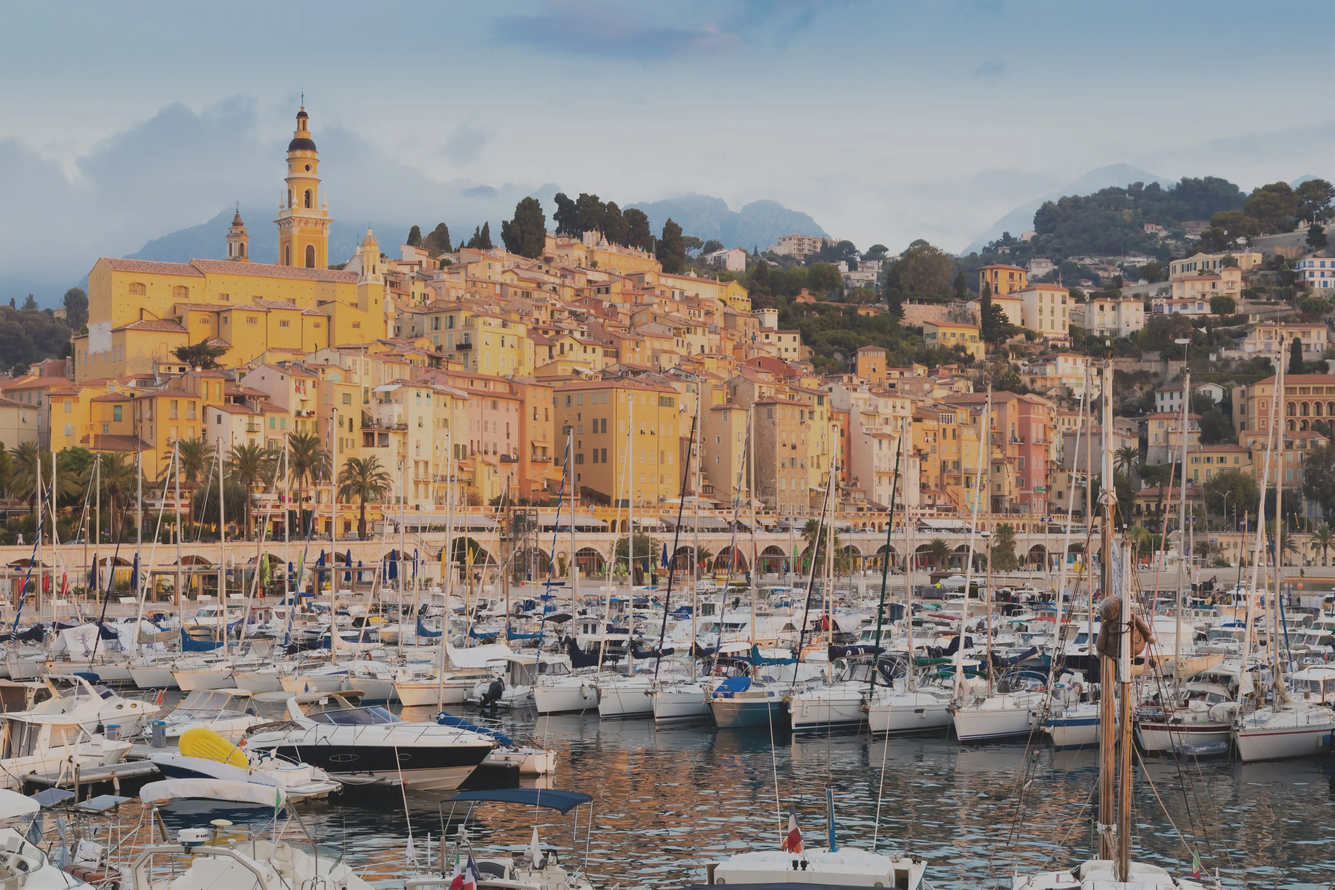
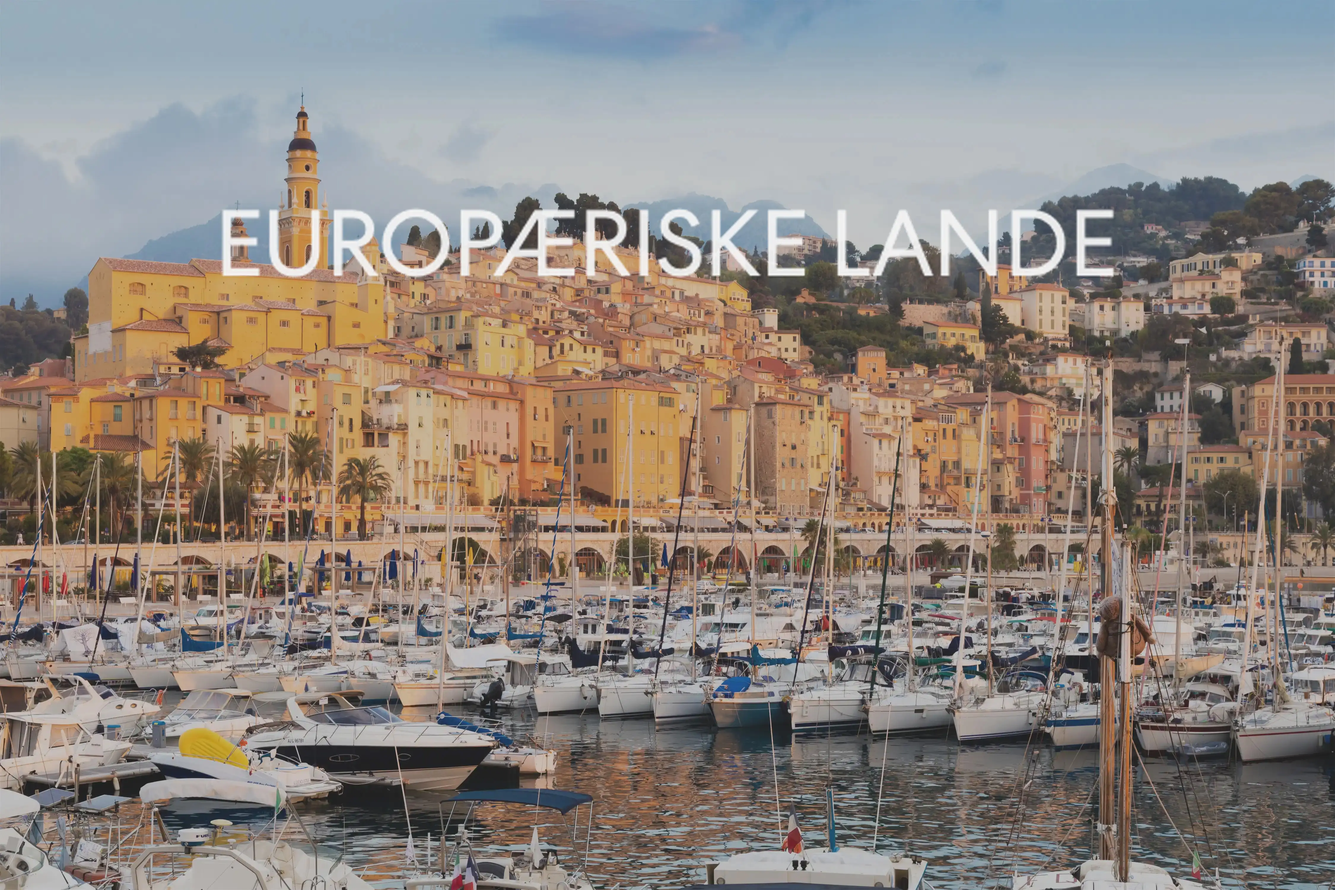
HWIQIDPHAS

Changed region(s): [[0.1556, 0.217, 0.84, 0.31]]

diff --git a/card.html b/card.html
@@ -8,7 +8,10 @@
     <link rel="stylesheet" href="css/card.css" />
     <link rel="icon" type="image/x-icon" href="images/favicon.png" />
     <link rel="stylesheet" href="css/burger.css" />
+    <link rel="stylesheet" href="css/footer.css" />
     <script src="https://kit.fontawesome.com/4c9d924f79.js" crossorigin="anonymous"></script>
+    <link href="https://cdn.jsdelivr.net/npm/remixicon@2.5.0/fonts/remixicon.css" rel="stylesheet" />
+
     <title>Europa card</title>
   </head>
   <body class="card">
@@ -42,7 +45,7 @@
           <form name="contact" netlify>
             <h1 id="skriv-dig-op">SKRIV DIG OP HER</h1>
             <p>Skriv dig op via vores formular nedenfor, hvis du ønsker at bestille eller høre mere om vores bypas kort</p>
-            <div class="row">
+            <div class="kort_row">
               <div class="input-group">
                 <input type="text" id="navn" required />
                 <label for="navn"><i class="fa-solid fa-user"></i> Dit Navn</label>
@@ -88,6 +91,75 @@
         </section>
       </section>
     </main>
+    <footer class="footer-sec">
+      <div class="footer_main">
+        <div class="footer_div1">
+          <div class="first row">
+            <div class="footer-header">
+              <img src="images/favicon.png" class="eulogo" alt="Logo" />
+            </div>
+            <div class="logo-des">
+              <h2>Oplev Europa</h2>
+              <p>For alle os der elsker at rejse.</p>
+            </div>
+          </div>
+
+          <div class="office row">
+            <div class="footer-header">
+              <h3>Find os her</h3>
+            </div>
+            <div class="office-des">
+              <p>
+                Guldbergsgade 29N <br />
+                2200 København N<br />Danmark
+              </p>
+
+              <a href="#">opleveuropa@kontakt.dk</a>
+
+              <p class="num">+45 2191 2152</p>
+            </div>
+          </div>
+        </div>
+        <div class="footer_div2">
+          <div class="link row">
+            <div class="footer-header">
+              <h3>Links</h3>
+            </div>
+
+            <div class="link-des">
+              <a href="#" class="footer-links">Forside</a>
+              <a href="#" class="footer-links">Destinationer</a>
+              <a href="#" class="footer-links">Shop</a>
+              <a href="#" class="footer-links">Subscribe</a>
+            </div>
+          </div>
+
+          <div class="newsletter row">
+            <div class="footer-header">
+              <h3>Nyhedsbrev</h3>
+            </div>
+            <div class="newsletter-des">
+              <div class="nyhed">
+                <i class="sub-icon ri-mail-check-fill"></i>
+                <input type="mail" placeholder="Skriv din email her:" required />
+                <i class="sub-icon ri-arrow-right-line"></i>
+              </div>
+              <h3 id="følgos">Følg os</h3>
+              <div class="icons">
+                <a href="#"><i class="social-icon ri-facebook-fill"></i></a>
+                <a href="#"><i class="social-icon ri-instagram-line"></i></a>
+                <a href="#"><i class="social-icon ri-linkedin-fill"></i></a>
+              </div>
+            </div>
+          </div>
+        </div>
+      </div>
+      <div class="copyright">
+        <hr />
+
+        <p>© Copyright 2023, Oplev Europa</p>
+      </div>
+    </footer>
     <script src="js/script.js"></script>
     <script src="js/burger.js"></script>
   </body>

diff --git a/lande.html b/lande.html
@@ -12,10 +12,7 @@
     <link rel="stylesheet" href="css/lande.css" />
     <link rel="stylesheet" href="css/footer.css" />
 
-    <link
-      href="https://cdn.jsdelivr.net/npm/remixicon@2.5.0/fonts/remixicon.css"
-      rel="stylesheet"
-    />
+    <link href="https://cdn.jsdelivr.net/npm/remixicon@2.5.0/fonts/remixicon.css" rel="stylesheet" />
   </head>
   <body class="lande">
     <header>
@@ -33,14 +30,11 @@
         </ul>
         <a href="#" class="toggle-menu">&#9776;</a>
       </nav>
-      <h1>Europæriske lande</h1>
     </header>
     <main class="lande-main">
       <template>
         <div class="Kort">
-          <a href="byer.html"
-            ><img src="" alt="" class="danmark" id="billede-land"
-          /></a>
+          <a href="byer.html"><img src="" alt="" class="danmark" id="billede-land" /></a>
           <!-- <div class="overlay"></div> -->
           <h2 class="land"></h2>
         </div>
@@ -138,11 +132,7 @@
             <div class="newsletter-des">
               <div class="nyhed">
                 <i class="sub-icon ri-mail-check-fill"></i>
-                <input
-                  type="mail"
-                  placeholder="Skriv din email her:"
-                  required
-                />
+                <input type="mail" placeholder="Skriv din email her:" required />
                 <i class="sub-icon ri-arrow-right-line"></i>
               </div>
               <h3 id="følgos">Følg os</h3>

diff --git a/index.html b/index.html
@@ -55,11 +55,11 @@
         <div class="forside_nav">
           <div id="nav_border">
             <p id="forside_nav_p">Hop til:</p>
-            <a href="#section-2"> 01 <u class="u-tekst">Europæriske Lande</u></a
+            <a href="lande.html"> 01 <u class="u-tekst">Europæriske Lande</u></a
             ><br />
-            <a href="#section-3">02 <u class="u-tekst">Oplevelsesrige seværdigheder</u></a
+            <a href="#forside_blok1">02 <u class="u-tekst">Oplevelsesrige seværdigheder</u></a
             ><br />
-            <a href="#section-4">03 <u class="u-tekst">Forbered din rejse</u></a
+            <a href="card.html">03 <u class="u-tekst">Forbered din rejse</u></a
             ><br />
           </div>
         </div>

diff --git a/css/lande.css b/css/lande.css
@@ -11,7 +11,7 @@
 }
 .lande {
   background-image: url(/images/nybaggrund.webp);
-  background-size: cover;
+  background-size: 100%;
   position: sticky;
 }
 
@@ -23,7 +23,7 @@
   margin-top: -10%;
   border-radius: 25px;
 }
-header h1 {
+/* header h1 {
   color: #f4f4f48b;
   padding-left: 10%;
   padding-right: 3%;
@@ -31,12 +31,12 @@ header h1 {
   padding-top: 4%;
 
   font-family: centra-medium;
-}
+} */
 .lande-main {
   background-color: white;
   display: grid;
   grid-template-columns: 1fr 1fr 1fr;
-  margin-top: 15%;
+  margin-top: 28%;
   gap: 2.5rem;
 }
 

diff --git a/css/card.css b/css/card.css
@@ -9,7 +9,7 @@
 
 /* card */
 .card {
-  background-image: url("../images/milano.webp");
+  background-image: url("../images/milano2.webp");
   background-size: cover;
   background-repeat: no-repeat;
   height: 50vw;
@@ -106,12 +106,12 @@ textarea:valid ~ label {
   top: -35px;
   font-size: 14px;
 }
-.row {
+.kort_row {
   display: flex;
   align-items: center;
   justify-content: space-between;
 }
-.row .input-group {
+.kort_row .input-group {
   flex-basis: 48%;
 }
 

diff --git a/css/generel.css b/css/generel.css
@@ -3,6 +3,10 @@
   src: url(/fonts/CentraNo2-Medium.ttf);
 }
 
+body {
+  margin: 0;
+}
+
 /* NAV */
 
 nav {
